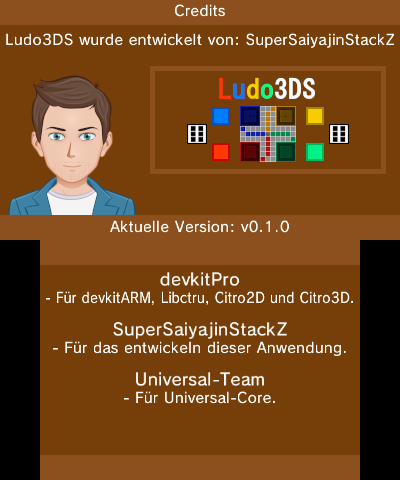
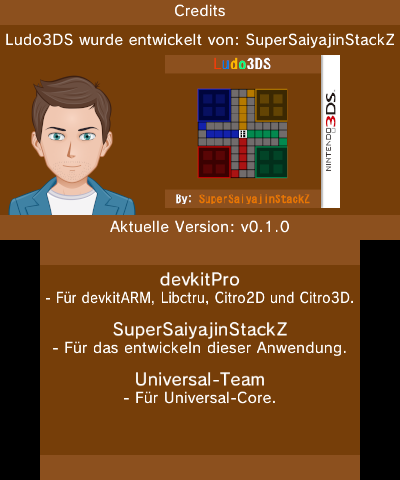
Ludo3DS hat jetzt ein Cover. :)
Dies ersetzt das Banner in der app.

Changed region(s): [[0.42, 0.0938, 0.87, 0.4375]]

diff --git a/3ds/source/overlays/SplashOverlay.cpp b/3ds/source/overlays/SplashOverlay.cpp
@@ -26,7 +26,7 @@
 
 #include "common.hpp"
 
-#define _SPLASH_X_LOGO_POS 135
+#define _SPLASH_X_LOGO_POS 170
 #define _SPLASH_LOGO_INIT_DELAY 50
 #define _SPLASH_WAIT_DELAY 200
 
@@ -49,7 +49,7 @@ static void Draw(const int &logoPos, const int &fadeAlpha, const uint32_t &year)
 
 	Gui::DrawStringCentered(0, 1, 0.7f, TEXT_COLOR, Lang::get("STACKZ_PRESENTS"));
 	GFX::DrawSprite(sprites_stackZ_idx, 2, 75);
-	if (logoPos < 400) GFX::DrawSprite(sprites_Logo_idx, logoPos, 56);
+	if (logoPos < 400) GFX::DrawSprite(sprites_Ludo3DS_idx, logoPos, 35);
 	Gui::DrawStringCentered(0, 217, 0.7f, TEXT_COLOR, "2020 - " + std::to_string(year), 390);
 	if (fadeAlpha > 0) Gui::Draw_Rect(0, 0, 400, 240, C2D_Color32(0, 0, 0, fadeAlpha));
 

diff --git a/3ds/source/overlays/CreditsOverlay.cpp b/3ds/source/overlays/CreditsOverlay.cpp
@@ -26,6 +26,8 @@
 
 #include "common.hpp"
 
+extern C2D_SpriteSheet sprites;
+
 /*
 	Zeichne den Credits-Screen.
 */
@@ -40,7 +42,7 @@ static void Draw() {
 	Gui::Draw_Rect(0, 215, 400, 25, BAR_COLOR);
 
 	GFX::DrawSprite(sprites_stackZ_idx, 2, 75);
-	GFX::DrawSprite(sprites_Logo_idx, 140, 56);
+	Gui::DrawSprite(sprites, sprites_Ludo3DS_idx, 165, 55, 0.9, 0.9);
 
 	Gui::DrawStringCentered(0, 1, 0.6f, TEXT_COLOR, Lang::get("CREDITS"));
 	Gui::DrawStringCentered(0, 30, 0.6f, TEXT_COLOR, Lang::get("DEV_BY"), 390);

diff --git a/README.md b/README.md
@@ -1,7 +1,7 @@
 # Ludo3DS
 <p align="center">
-	<a href="https://github.com/SuperSaiyajinStackZ/Ludo3DS/releases/latest"><img src="https://github.com/SuperSaiyajinStackZ/Ludo3DS/blob/main/3ds/app/Banner.png"></a><br>
-	<b>Ludo3DS ist ein 'Work in progress' `Ludo` klon für den Nintendo 3DS.</b><br>
+	<a href="https://github.com/SuperSaiyajinStackZ/Ludo3DS/releases/latest"><img src="https://github.com/SuperSaiyajinStackZ/Ludo3DS/blob/main/Cover_ReadMe.png"></a><br>
+	<b>Ludo3DS ist ein 'Work in progress' Ludo klon für den Nintendo 3DS.</b><br>
 </p>
 
 Dieses Spiel ist ebenso als [Mensch ärger Dich nicht](https://de.wikipedia.org/wiki/Mensch_%C3%A4rgere_Dich_nicht) bekannt.
